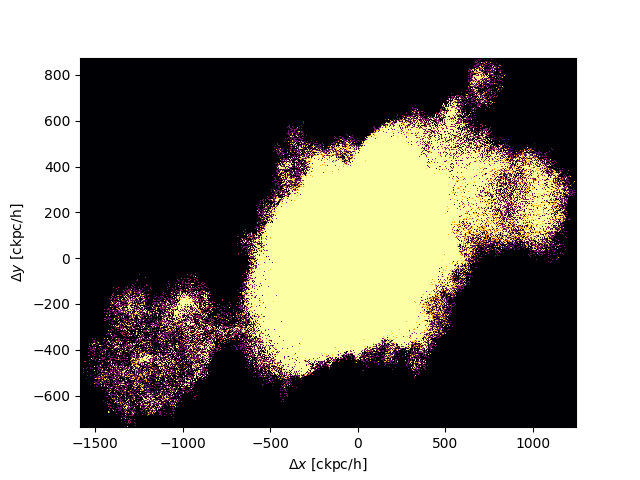
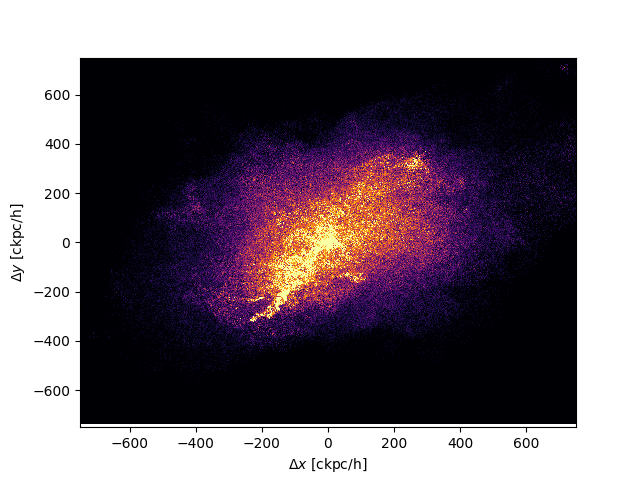
slow code

diff --git a/Week_2/cut4.py b/Week_2/cut4.py
@@ -1,3 +1,5 @@
+#%%
+import os
 import logging # http logging for debugging purpouses
 import time #runtime calculation 
 import numpy as np #data handling 
@@ -5,6 +7,7 @@ import requests #obtain data from API server
 import h5py #binary file manipulation
 import pandas as pd 
 import matplotlib.pyplot as plt 
+
 baseurl = baseUrl = 'http://www.tng-project.org/api/'
 headers = {"api-key":"849c96a5d296f005653a9ff80f8e259e"}
 start = time.time()
@@ -25,30 +28,21 @@ def get(path, params=None):
         return filename # return the filename string
 
     return r
-id=19546
+cutout = h5py.File("/Users/benedictcallander/Desktop/MPhys/MPhys-Project/Week_2/cut.hdf5",'r')
 
+id = 0
 sub_prog_url = "http://www.tng-project.org/api/TNG50-2/snapshots/99/subhalos/"+str(id)+"/"
 sub_prog = get(sub_prog_url)
-massive_url = "http://www.tng-project.org/api/TNG50-2/snapshots/z=0/subhalos/?order_by=-mass&sfr_gt=0.0/"
-
-for i in range (5):
-    valid_subs = get(massive_url)
-    massive_ids = [ valid_subs['results'][i]['id'] for i in range(5)]
-print(massive_ids)
 
 
 
-cutout_request = {'gas':'Coordinates,Masses,GFM_Metallicity'}
-cutout = get(sub_prog_url+"cutout.hdf5", cutout_request)
-
-
-with h5py.File(cutout,'r') as f:
+with h5py.File("/Users/benedictcallander/Desktop/MPhys/MPhys-Project/Week_2/cut.hdf5",'r') as f:
     x = f['PartType0']['Coordinates'][:,0] - sub_prog['pos_x']
     y = f['PartType0']['Coordinates'][:,1] - sub_prog['pos_y']
-    dens =(f['PartType0']['GFM_Metallicity'][:])
+    dens =(f['PartType0']['Masses'][:])
 lim = 750
 plt.figure()
-plt.hist2d(x,y,weights=dens,bins=[5000,1000], cmap = 'inferno', vmin = min(dens), vmax = max(dens))
+plt.hist2d(x,y,weights=dens,bins=[50000,10000], cmap = 'inferno', vmin = min(dens), vmax = max(dens))
 plt.xlabel('$\Delta x$ [ckpc/h]')
 plt.ylabel('$\Delta y$ [ckpc/h]')
 #plt.xlim(-lim,lim)
@@ -58,3 +52,5 @@ plt.close()
 
 end = time.time()
 print('runtime{}'.format(end-start))
+
+# %%
